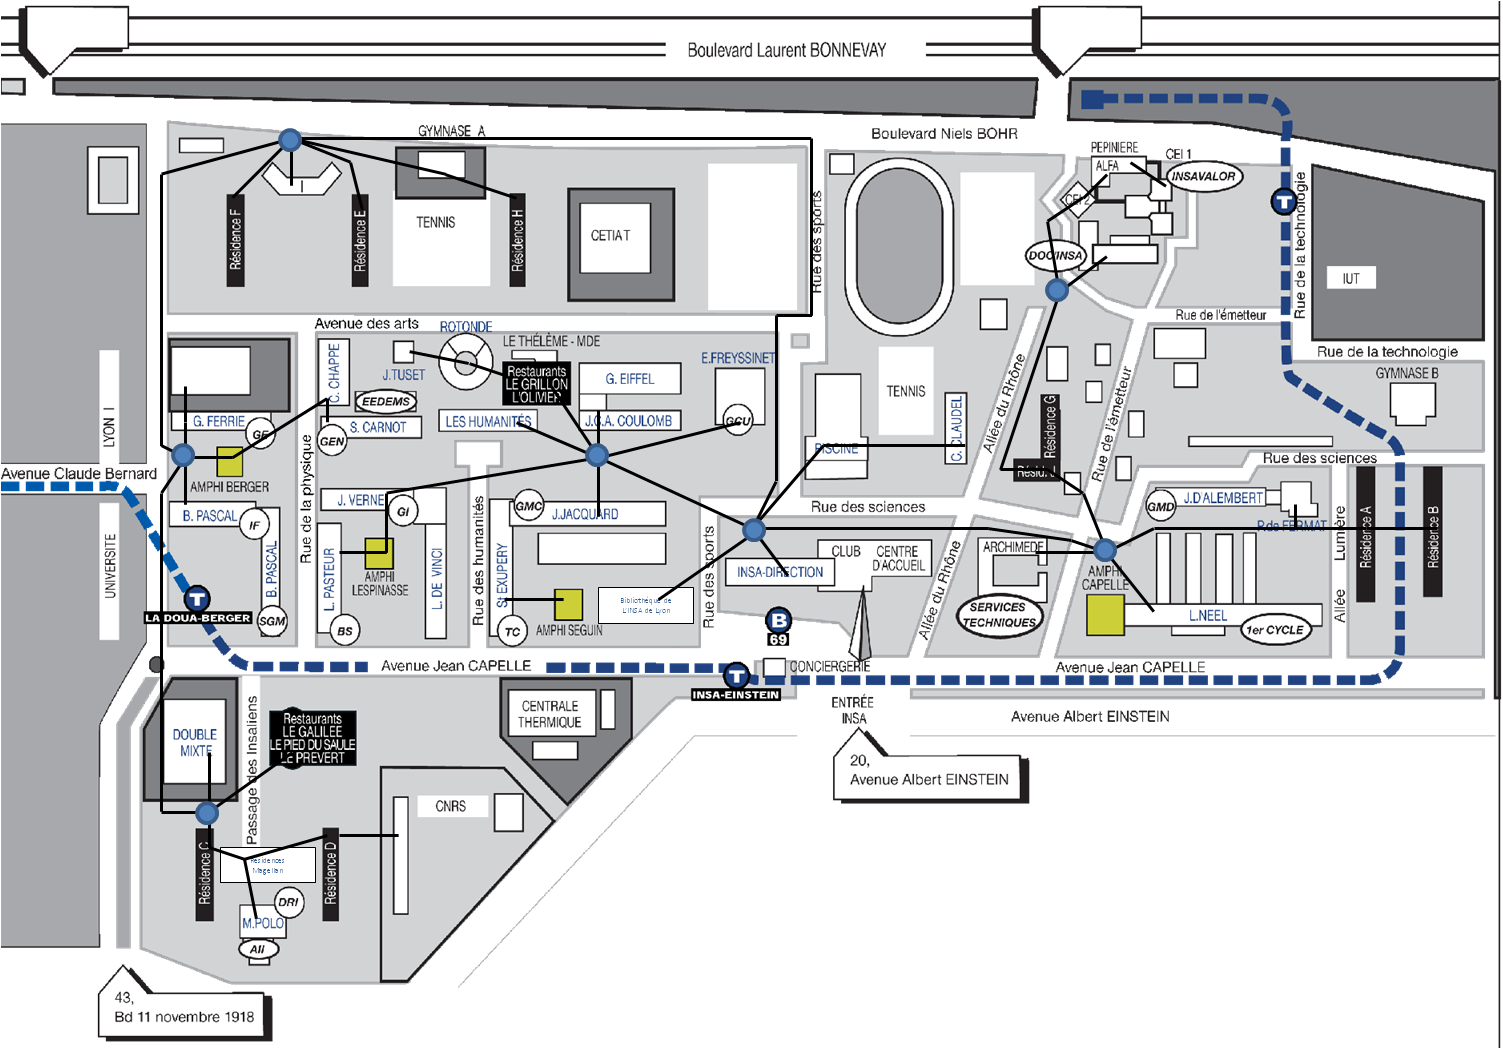
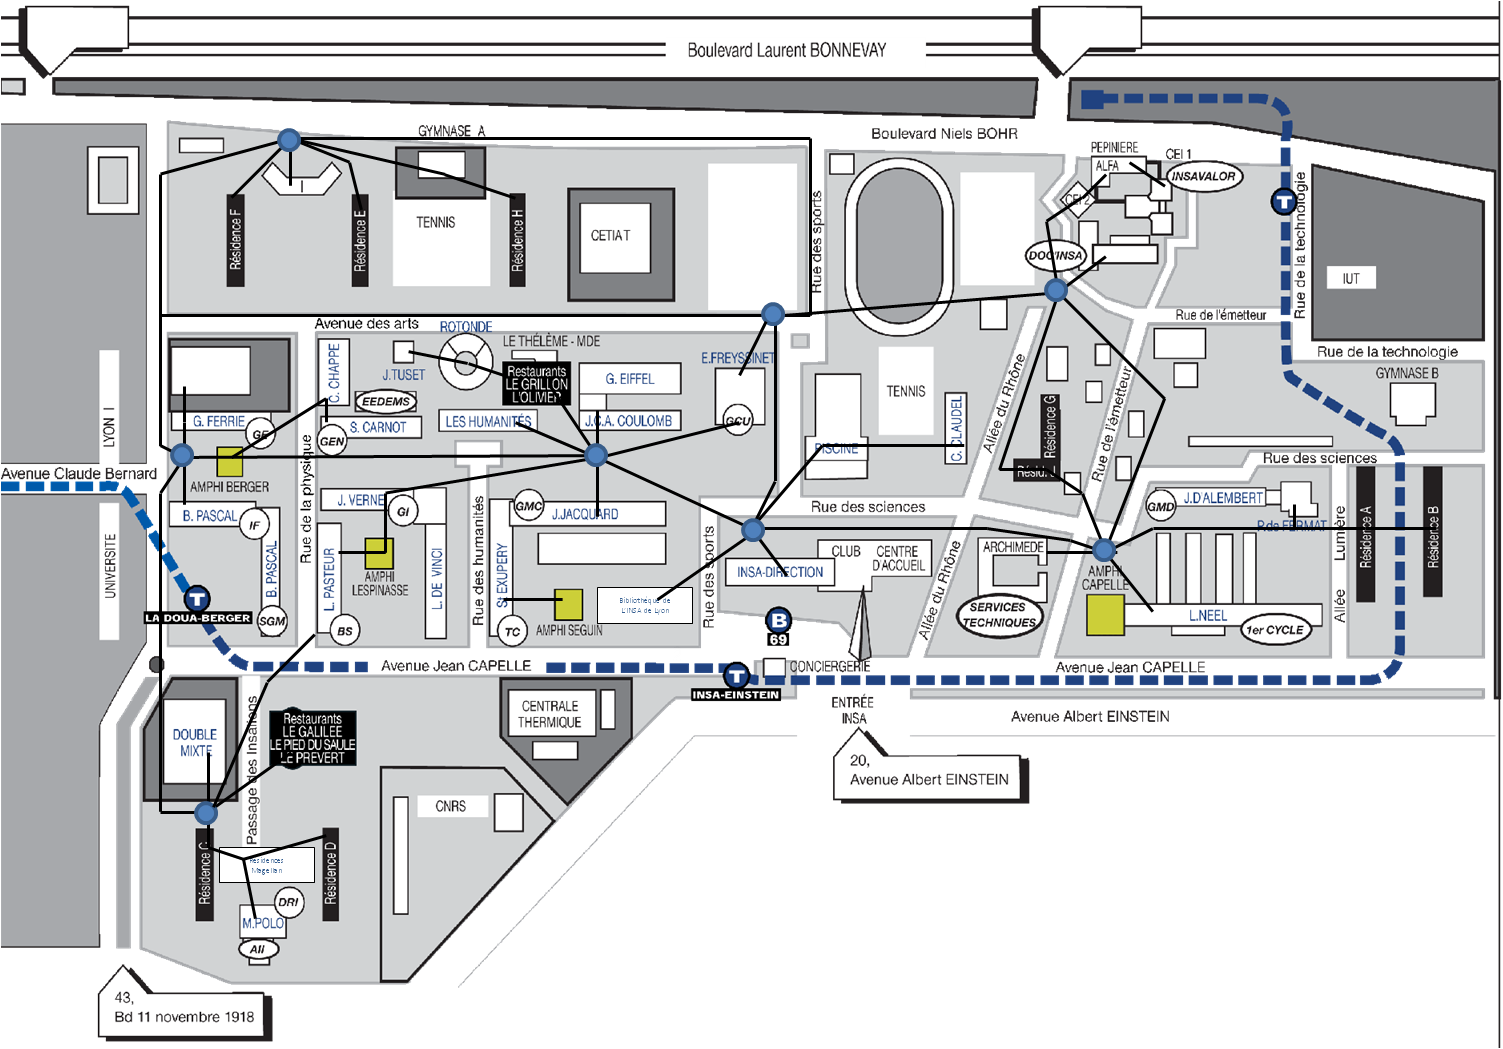
Correction des l'existant et de la partie sur les boucles

diff --git a/ArchiTech/Boucles.tex b/ArchiTech/Boucles.tex
@@ -2,7 +2,10 @@
 
 \paragraph{} Afin de déployer une nouvelle infrastructure réseau acceptant la ToIP dans le but de remplacer à terme l'ensemble des téléphones analogiques par des téléphones numériques (y compris les téléphones des secours), il est nécessaire de pouvoir assurer le transfert de données en toute circonstances. La sécurité du réseau doit être assurée par une double connexion de chaque bâtiment au réseau optique du campus. De cette manière, même en cas de défaillance d'une fibre, les données pourront toujours circuler. L'unique boucle optique actuellement disponible sur le campus ne répond pas aux exigences de sécurité citées ci-dessus. Elle est également déployée dans des fourreaux anciens et ne répondant pas aux normes de sécurité actuelles. Enfin, les fibres sont principalement des fibres optiques multimode ne permettant pas un débit suffisant pour gérer à la fois le réseau de données et le réseau téléphonique qui devront passer par les mêmes voies.
 
-\paragraph{} De grands travaux d'aménagement seront effectués lors de la mise en place du projet de déploiement de ToIP sur le campus. Deux nouvelles boucles optiques seront installées dans de nouveaux fourreaux enterrés dans tout le campus. Ces fibres seront des fibres monomodes, les deux boucles formeront un réseau permettant à chaque bâtiment d'avoir deux accès indépendants au réseau global du campus. Les figures ci-dessous présentent les deux boucles avec les noeuds optiques associés.
+\paragraph{} De grands travaux d'aménagement seront effectués lors de la mise en place du projet de déploiement de ToIP sur le campus. Deux nouvelles boucles optiques seront installées dans de nouveaux fourreaux enterrés dans tout le campus. Ces fibres seront des fibres monomodes, les deux boucles formeront un réseau permettant à chaque bâtiment d'avoir deux accès indépendants au réseau global du campus. Les figures ci-dessous présentent les deux boucles avec les nœuds optiques associés.
+
+\paragraph{} Les boucles seront créées selon un schéma de déploiement en étoile autour du bâtiment Jacquard qui représente le cœur du réseau. La première boucle (qui est la boucle principale) est en plus conçue pour former une réelle boucle qui pourra transporter les données d'un nœud à l'autre même en cas de section d'une partie de la boucle.
+
 
 \begin{figure}[h]
   \caption{\label{Plan_boucle1} Première boucle optique}
@@ -13,9 +16,12 @@
   \caption{\label{Plan_boucle2} Deuxième boucle optique}
   \includegraphics[scale=0.6]{Boucle2.png}
 \end{figure}
-\newpage
+~\\
 
-\paragraph{} Nous pouvons remarquer que le déploiement de ces boucles conduira à la construction de 15 noeuds optiques. Ces noeuds seront les points de convergence des fourreaux. Il seront composés de switchs optiques et de système de climatisation. L'alimentation électrique de ces noeuds se fera par cables électriques enterrés dans des fourreaux parallèles aux fourreaux de fibre optique. Cette connexion permettra non seulement de n'avoir à effectuer qu'une seule tranchée pour les fibres et l'alimentation mais également de permettre de centraliser l'alimentation des différents noeuds et locaux techniques au bâtiment Jacquard ce qui permettra d'y installer les équipements de protection en cas de coupure de courant sur le campus (onduleur sur batterie, groupe électrogène).
-\paragraph{} Comme présenté dans les plans, les fourreaux seront placés entre les bâtiments connectés. Afin de limiter le nombre de noeuds optiques, certaines fibres passeront à l'intérieur d'un bâtiment et seront redirigées vers un autre fourreau de sortie dans le local technique de ce dernier pour connecter un bâtiment voisin. 
-\paragraph{} La plupart des bâtiments du campus sont déjà équipés de locaux techniques pour la gestion de leur parc informatique. Lors de la mise en place des fourreaux pour la connexion d'un bâtiment, ces locaux tehniques seront rénovés et équipés avec le matériel nécessaire à la gestion des deux boucles. La rénovation passera par le changement des switchs qui seront utilisés par les téléphones en switchs POE, l'installation de climatisation dans les locaux (les switchs POE émettent plus de chaleur en fonctionnement que les switchs normaux).
-\paragraph{} Si la place disponible dans les locaux techniques d'un bâtiment n'est pas suffisante, de nouveaux locaux pourront être créés après destruction des anciens. La politique sera alors la création d'un ou deux locaux techniques par bâtiment (en fonction de la taille de ce dernier). Ce locaux techniques seront situés le plus possible aux étages médians des bâtiments afin de limiter la longueur des câbles ethernet dans les bâtiments. 
+\paragraph{} Nous pouvons remarquer que le déploiement de ces boucles conduira à la construction de 16 nœuds optiques. Ces nœuds seront les points de convergence des fourreaux. Il seront composés de switchs optiques et de système de climatisation. L'alimentation électrique de ces nœuds se fera par câbles électriques enterrés dans des fourreaux parallèles aux fourreaux de fibre optique. Cette connexion permettra non seulement de n'avoir à effectuer qu'une seule tranchée pour les fibres et l'alimentation mais également de permettre de centraliser l'alimentation des différents nœuds et locaux techniques au bâtiment Jacquard ce qui permettra d'y installer les équipements de protection en cas de coupure de courant sur le campus (onduleur sur batterie, groupe électrogène).
+
+\paragraph{} Comme présenté dans les plans, les fourreaux seront placés entre les bâtiments connectés. Afin de limiter le nombre de nœuds optiques, certaines fibres passeront à l'intérieur d'un bâtiment et seront redirigées vers un autre fourreau de sortie dans le local technique de ce dernier pour connecter un bâtiment voisin. Afin de prévenir de tout risque causé par le destruction de fourreaux aux abords des locaux techniques, chaque bâtiment connecté au réseau disposera de deux points d'entrées bien distincts pour les connexions des deux boucles optiques (en général : un point d'entrée pour la première boucle au niveau du local technique, une deuxième point d'entrée pour la seconde à l'autre bout du bâtiment. La fibre sera amenées au local par le câblage interne du bâtiment).
+
+\paragraph{} La plupart des bâtiments du campus sont déjà équipés de locaux techniques pour la gestion de leur parc informatique. Lors de la mise en place des fourreaux pour la connexion d'un bâtiment, ces locaux techniques seront rénovés et équipés avec le matériel nécessaire à la gestion des deux boucles. La rénovation passera par le changement des switchs qui seront utilisés par les téléphones en switchs POE, l'installation de climatisation dans les locaux (les switchs POE émettent plus de chaleur en fonctionnement que les switchs normaux).
+
+\paragraph{} Si la place disponible dans les locaux techniques d'un bâtiment n'est pas suffisante, de nouveaux locaux pourront être créés après destruction des anciens. La politique sera alors la création d'un ou deux locaux techniques par bâtiment (en fonction de la taille de ce dernier). Ce locaux techniques seront situés le plus possible aux étages médians des bâtiments afin de limiter la longueur des câbles Ethernet dans les bâtiments. 
